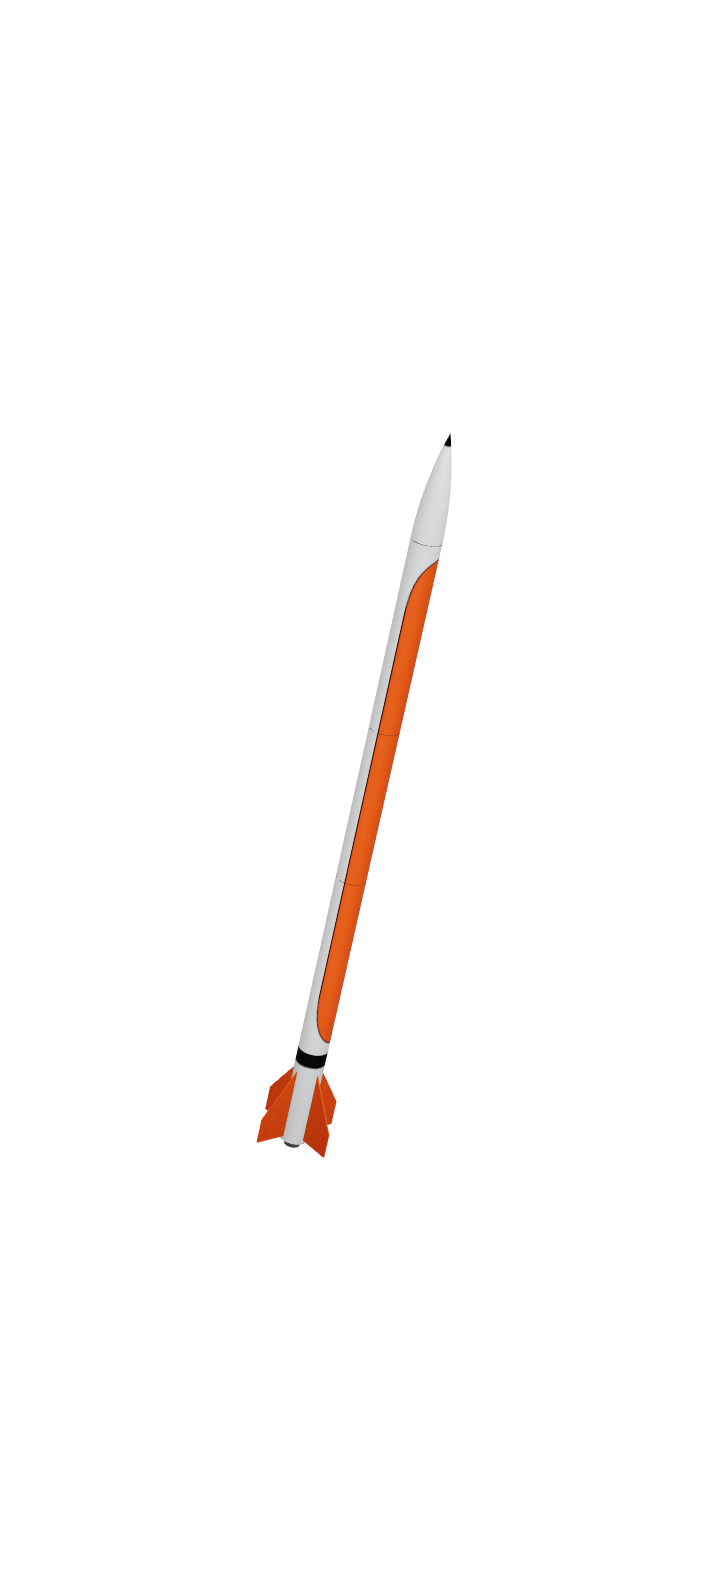
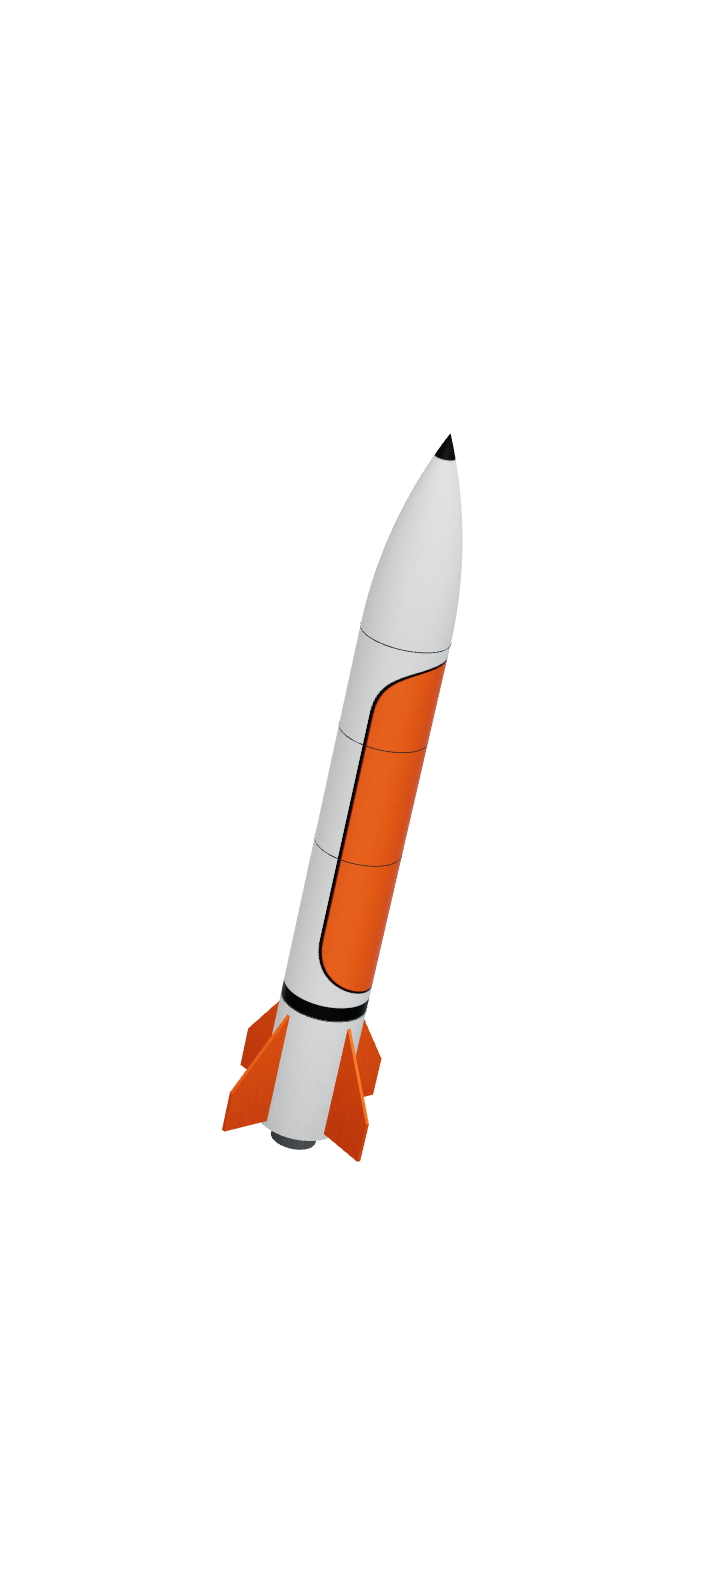
fix(landing): VES Mark I at Cavour's proportions, Mark I key facts (#361)
Owner decision on the issue: the model is not a replica. VES now takes
Cavour's length, body radius, nose start and frame, so the project cards
read as one set, and keeps the Mark I livery. Fins keep Mark I's shape at
Cavour's span. Card and stage stills re-rendered.

The VES page key facts under the "VES MARK I" caption are Mark I's,
read from the Mark I version (3 420 mm, CTI M1790, 3 000 m target
apogee). Migration 0040 regenerated from revisionSql. The design manifest
no longer says VES has no render.

Changed region(s): [[0.3056, 0.2805, 0.6417, 0.7481]]

diff --git a/components/landing/rocket-ves.tsx b/components/landing/rocket-ves.tsx
@@ -5,6 +5,7 @@ import { brand } from "@/lib/brand-colors";
 import type { WeatherUniforms } from "./hero-weathering";
 import {
   DEG,
+  FIN_THICKNESS_OF_SPAN,
   finGeometry,
   hullMaterials,
   lathe,
@@ -17,76 +18,80 @@ import {
 } from "./rocket-parts";
 
 // VES Mark I built in code, the way rocket-cavour.tsx builds Cavour (issue
-// #361). There is no CAD file for VES, so every number below was read off the
-// team's side-on photos of Mark I at EuRoC 2024 and the public specs: 134 mm
-// outer diameter, about 3.42 m long (3.65 m is Mark II). Measured in the
-// photo of the rocket held level, where the body is 43 px across and the
-// whole vehicle 1100 px long.
+// #361). It is not a replica: by Owner decision
+// (https://github.com/PoliTo-Rocket-Team/website-v2/issues/361#issuecomment-6253099628)
+// it takes Cavour's length and body proportions, so the project cards read
+// as one set, and keeps Mark I's look. The real Mark I is 134 mm across and
+// 3 420 mm long (25 calibres); the page's key facts say so, the model does
+// not try to.
 //
-// Units are Cavour's, so the shared nozzle and seams fit and the stages read
-// both vehicles in one frame: body radius 0.05, tail at y=0, nose pointing
-// +Y, laid along +X by the holder at the bottom. MM converts a measured
-// millimetre into those units.
+// Units and envelope are Cavour's: body radius 0.05, tail at y=0, nose tip
+// at y=0.85, the nose starting where Cavour's does, nose pointing +Y, laid
+// along +X by the holder at the bottom. The shared nozzle and seams fit, and
+// the model is framed in Cavour's own box (BBOX_MIN below), so on a stage
+// that draws either one at the same length the two bodies match.
 //
-// Livery, from the same photos: a white body, one orange stripe along one
-// side with a thin black edge, a white ogive nose with a small black tip, four
-// orange swept fins, a short black band just above the fins and a black
-// tail ring. It is drawn into a canvas from the brand colours, so the wrap
-// needs no file. Decals and lettering are left out.
+// Livery, from the team's photos of Mark I at EuRoC 2024: a white body, one
+// orange stripe along one side with a thin black edge, a white ogive nose
+// with a small black tip, four orange swept fins, a short black band just
+// above the fins and a black tail ring. It is drawn into a canvas from the
+// brand colours, so the wrap needs no file. Decals and lettering are left
+// out.
 
-const MM = 0.05 / 67; // units per millimetre: 67 mm radius → Cavour's 0.05
-const R = 0.05; // body radius, 134 mm
-const LENGTH_MM = 3420; // nose tip to the nozzle's mouth
-// The bell's mouth is the lowest point: y = -0.027 (nozzleGeometry).
-const BBOX_MIN = -0.027;
-const TIP = LENGTH_MM * MM + BBOX_MIN;
-const NOSE_LENGTH = 470 * MM; // a tangent ogive, 3.5 calibres
-const NOSE_START = TIP - NOSE_LENGTH;
-const NOSE_TIP_BLACK = 55 * MM; // the black cap on the nose's point
+const R = 0.05; // body radius, Cavour's
+const TIP = 0.85; // nose tip, Cavour's
+const NOSE_START = 0.619; // where Cavour's nose begins
+const NOSE_LENGTH = TIP - NOSE_START; // a tangent ogive, about 2.3 calibres
+const NOSE_TIP_BLACK = 0.027; // the black cap on the nose's point
+// Cavour's box: its fin tips reach y = -0.0357, lower than this nozzle's
+// mouth (-0.027, nozzleGeometry), so VES sits in the frame exactly where
+// Cavour does.
+const BBOX_MIN = -0.0357;
 
-// Fin plate outline in (radial, axial): swept trapezoid, root buried 0.8 mm
-// (in Cavour units) inside the skin. Root chord 340 mm, tip chord 120 mm,
-// span 150 mm; the trailing edge stands square, 20 mm above the tail. Four
-// at 45° + k·90°, as Cavour's. Thin and square-cut: a 5 mm plate, no fillet.
+// Fin plate outline in (radial, axial): Mark I's swept trapezoid at Cavour's
+// span. Root buried 0.8 mm inside the skin; span 0.0625 as Cavour's; root
+// chord 2.27 spans and tip chord 0.8 span, Mark I's ratios; the trailing
+// edge stands square just above the tail. Four at 45° + k·90°, as Cavour's.
+// Thin and square-cut: a plate, no fillet.
 const FIN_ROOT = R - 0.0008;
-const FIN_TIP = R + 150 * MM;
+const FIN_TIP = 0.1125;
 const FIN_OUTLINE: [number, number][] = [
-  [FIN_ROOT, 20 * MM],
-  [FIN_ROOT, 360 * MM],
-  [FIN_TIP, 140 * MM],
-  [FIN_TIP, 20 * MM],
+  [FIN_ROOT, 0.008],
+  [FIN_ROOT, 0.15],
+  [FIN_TIP, 0.058],
+  [FIN_TIP, 0.008],
 ];
-const FIN_THICKNESS = 5 * MM;
+const FIN_THICKNESS = FIN_THICKNESS_OF_SPAN * 0.1675; // Cavour's plate
 
 // Section joints: the fin can, the two body joints and the nose shoulder.
-const SEAM_Y = [400 * MM, 1330 * MM, 2050 * MM, NOSE_START];
+const SEAM_Y = [0.16, 0.36, 0.5, NOSE_START];
 const SEAM_R = 0.0504;
 const SEAM_H = 0.0009;
 
 // The short black band, just above the fins.
-const BAND = { from: 400 * MM, to: 470 * MM };
+const BAND = { from: 0.16, to: 0.178 };
 
 // The orange stripe: a third of the round, centred low on the camera side
 // (angle 90° faces the camera, 0° faces down once laid along +X), from above
 // the band to just short of the nose shoulder. Its ends taper to a point
 // along its upper edge, as the photos show, and a thin black line edges it.
 const STRIPE = {
-  from: 520 * MM,
-  to: NOSE_START - 60 * MM,
+  from: 0.192,
+  to: NOSE_START - 0.016,
   angLo: -10,
   angHi: 110,
-  taper: 260 * MM,
-  edge: 6 * MM,
+  taper: 0.065,
+  edge: 0.0045,
 };
 
 /** u on the hull's UV rule (rocket-parts.ts): u = 0.5 − angle/2π. */
 const uOf = (angDeg: number) => 0.5 - angDeg / 360;
 
 // The wrap drawn into a canvas on the hull's UV rule (v = 1 − y/TIP, nose at
-// the top of the image). The hull is 25 calibres long, so the image is tall.
+// the top of the image). The hull is 8.5 calibres long, so the image is tall.
 function liveryTexture(): THREE.CanvasTexture {
   const W = 512;
-  const H = 4096;
+  const H = 2048;
   const canvas = document.createElement("canvas");
   canvas.width = W;
   canvas.height = H;

diff --git a/lib/project-content/import.ts b/lib/project-content/import.ts
@@ -658,8 +658,10 @@ export const firstImport: readonly ProjectRecord[] = [cavour, ves, efesto];
 
 /**
  * VES draws its own rocket, Mark I, on its home card and its page (issue
- * #361), not Cavour's. The page's caption names the mark it draws.
- * Migration drizzle/0040_ves_mark_one_rocket.sql holds its `revisionSql`.
+ * #361), not Cavour's. The page's caption names the mark it draws, and the
+ * key facts under it are Mark I's, from `vesMarkI` (target apogee, as Mark
+ * II's fact gives its target). Migration drizzle/0040_ves_mark_one_rocket.sql
+ * holds its `revisionSql`.
  */
 export const vesMarkOneRocket: ProjectRevision = {
   slug: "ves",
@@ -669,6 +671,17 @@ export const vesMarkOneRocket: ProjectRevision = {
     {
       path: ["hero", "visual", "rocket"],
       value: { own: { model: "ves", alt: "VES Mark I in its EuRoC 2024 livery, side-on, nose right" } },
+    },
+    {
+      path: ["hero", "facts"],
+      value: [
+        { value: vesMarkI.specs.diameter, label: { text: "DIAMETER" } },
+        { value: vesMarkI.specs.length, label: { text: "LENGTH" } },
+        { value: vesMarkI.specs.wetMass, label: { text: "WET MASS" } },
+        { value: vesMarkI.specs.motor, label: { text: "MOTOR" } },
+        { value: vesMarkI.specs.maxSpeed, label: { text: "MAX SPEED" } },
+        { value: vesMarkI.specs.targetApogee, label: { text: "TARGET APOGEE" } },
+      ],
     },
   ],
 };

diff --git a/lib/project-content/content.test.ts b/lib/project-content/content.test.ts
@@ -56,6 +56,14 @@ test("migration 0040 holds exactly the VES Mark I revision, and the revised reco
   const ves = importedRecords[1];
   assert.equal(ves.card.rocket, "ves");
   assert.deepEqual(pageRecordOf(ves).hero.visual?.rocket?.own?.model, "ves");
+  const markI = ves.kind === "vehicle" ? ves.versions?.after.find((v) => v.pill === "VES MARK I") : undefined;
+  assert.ok(markI, "VES has its Mark I version");
+  const { diameter, length, wetMass, motor, maxSpeed, targetApogee } = markI.specs;
+  assert.deepEqual(
+    ves.hero.facts.map((f) => f.value),
+    [diameter, length, wetMass, motor, maxSpeed, targetApogee],
+    "the key facts under the Mark I caption are Mark I's",
+  );
   assert.equal(firstImport[1].card.rocket, "cavour", "the import itself stays as 0037 carried it");
   assert.deepEqual(importedRecords[0], firstImport[0], "a revision touches its own project only");
 });

diff --git a/design-system-manifest.md b/design-system-manifest.md
@@ -18,10 +18,11 @@ trust that code over the ADR. Unsettled conflicts are listed under "Open gaps".
 - Tailwind CSS 3 (`tailwind.config.ts`) plus `tailwindcss-animate`. shadcn/ui primitives in
   `components/ui/` (`components.json`: style `default`, CSS variables on).
 - Three.js through `@react-three/fiber` for the hero rocket and the project card rockets
-  (`hero-rocket-3d.tsx`, `rocket-card-3d.tsx`, `rocket-cavour.tsx`, `hero-plume.tsx`,
-  `hero-weathering.ts`). The `/projects/cavour` hero shows a still of the parked rocket
-  (`CAVOUR_STAGE_POSTER`), rendered offline from `cavour-stage-3d.tsx` by
-  `scripts/render-cavour-stage.mjs`; that page loads no 3D.
+  (`hero-rocket-3d.tsx`, `rocket-card-3d.tsx`, `rocket-cavour.tsx`, `rocket-ves.tsx`,
+  `hero-plume.tsx`, `hero-weathering.ts`). The `/projects/cavour` hero shows a still of the
+  parked rocket (`CAVOUR_STAGE_POSTER`), rendered offline from `cavour-stage-3d.tsx` by
+  `scripts/render-cavour-stage.mjs`; that page loads no 3D. `/projects/ves` shows VES Mark I's
+  still (`VES_STAGE_POSTER`) the same way.
 - The site is dark only. `app/layout.tsx` sets `defaultTheme="dark"`, `enableSystem={false}`,
   and paints `<html>` with the `ground` colour and `color-scheme: dark` before CSS loads.
 
@@ -362,8 +363,10 @@ inset 32px at the bottom (20px from lg to xl). The cards sit in one horizontal s
 every width and never wrap to a new line (issue #359): from md 16px apart, two to a view below
 lg and three from lg (427px wide at 1440), snapping to the 64px page edge, with the row bleeding
 over the section padding so a fourth card peeks past the edge. Pager dots show from md only
-while the cards overflow the row, so three cards at lg show none. Each card renders its record's rocket model live in 3D (Cavour on the three cards today;
-a project with no model of its own draws the shared placeholder, `lib/rocket-model.ts`). At rest it shows from the nose to
+while the cards overflow the row, so three cards at lg show none. Each card renders its record's rocket model live in 3D (VES Mark I on the VES card, Cavour on
+the other two; a project with no model of its own draws the shared placeholder, `lib/rocket-model.ts`).
+VES Mark I is built at Cavour's length and body proportions, not as a replica, so the cards read
+as one set (`rocket-ves.tsx`). At rest it shows from the nose to
 mid-body above the info box. There is no hover rise (Huey, 2026-10-06): on hover only the card's glass edge brightens and
 the rocket stays where it rests. The canvas wrapper hangs above and below the card and is clipped to the card's sides and
 bottom only. The vehicle and camera hold still in the scene.
@@ -404,8 +407,8 @@ page is the layout reference.
   with no note about what is missing. Section numbers follow the sections that render, so they
   always run 01, 02, 03 ... (`sectionsOf` in `lib/project-pages/index.ts`).
 - The hero shows the visual panel on the project's texture only when the record has a visual:
-  Cavour's still of the parked rocket (Stack above, not 3D), VES's texture alone with its
-  caption (no render exists, and the page says nothing about one), Efesto none. Up to six key
+  Cavour's still of the parked rocket (Stack above, not 3D), VES's still of Mark I with its
+  "VES MARK I" caption and Mark I's key facts, Efesto none. Up to six key
   facts. A set with a value longer than ten characters is set at 17px on phones (else 20px),
   and on desktop sits 3 x 2 below xl (1280) so no value runs into the next (`factLayout` in
   `hero.tsx`); a shorter set is one row of six.
